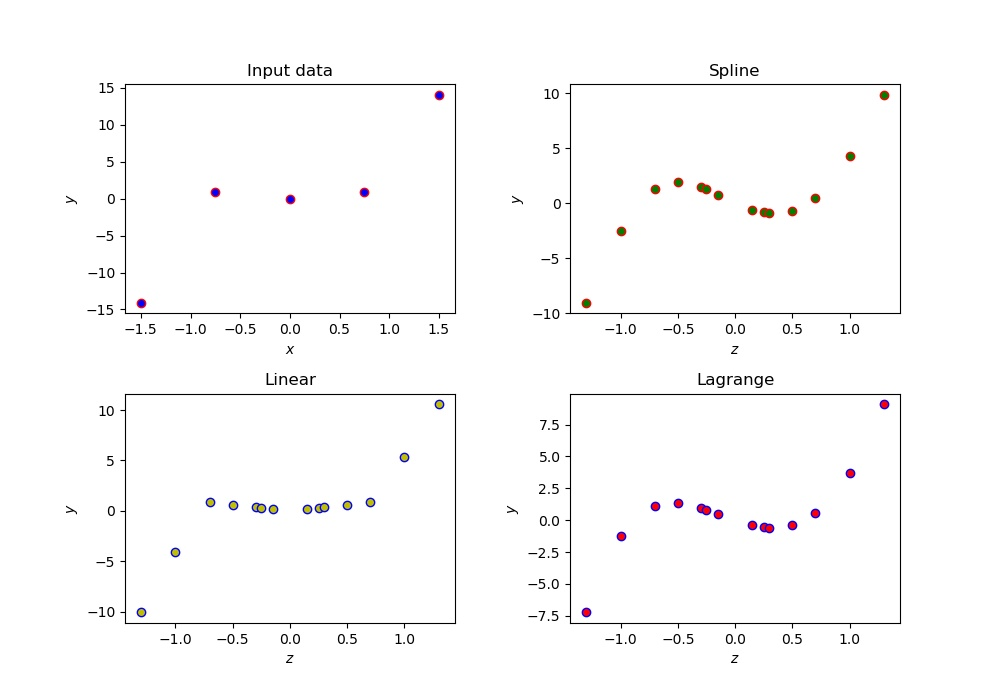
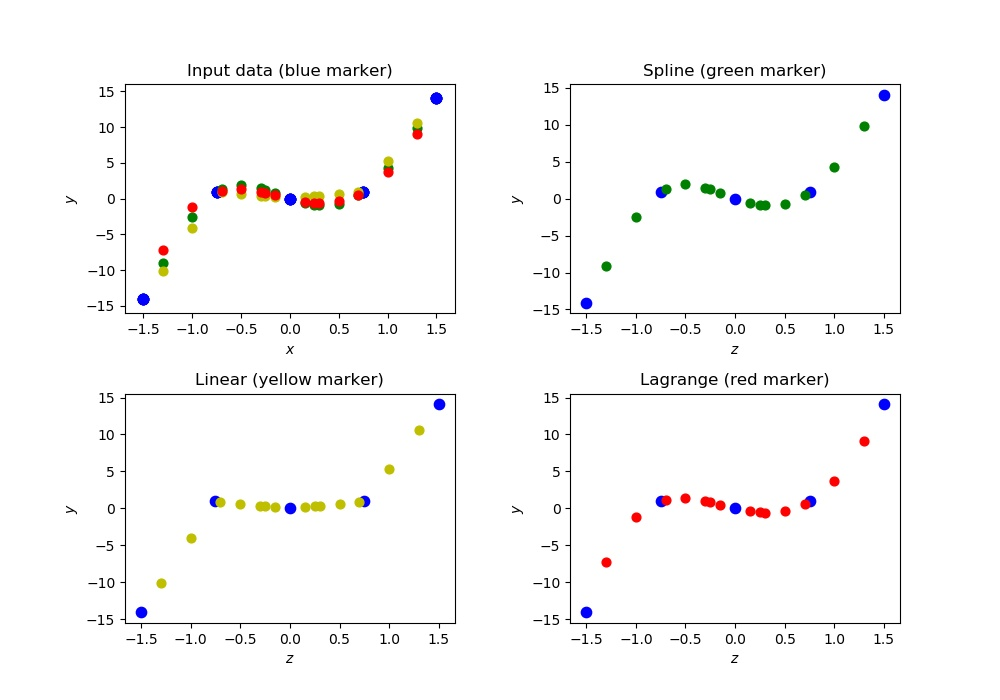
Add files via upload

diff --git a/Hw3/test.py b/Hw3/test.py
@@ -20,9 +20,10 @@ def write_file(name, v):
         fans.write('\n')
 
 # plotting    
-def pltplt(ax, title, x_data, y_data, xlabel, ylabel, color, edge_c):
+def pltplt(ax, title, x_data, y_data, xlabel, ylabel, color,size):
     ax.set_title(title)
-    ax.scatter(x_data,y_data,marker='o', c=color, edgecolor=edge_c)
+    ax.scatter(x_data,y_data,marker='o', c=color, s=size)
+    ax1.scatter(x_data,y_data,marker='o', c=color, s=size)
     ax.set_xlabel(xlabel)
     ax.set_ylabel(ylabel)
     
@@ -52,11 +53,15 @@ ax2 = plt.subplot(222)
 ax3 = plt.subplot(223)
 ax4 = plt.subplot(224)
 
-pltplt(ax1, 'Input data', x[0], x[1], '$x$', '$y$', 'b', 'r')
-pltplt(ax2, 'Spline', x[2], ans[0], '$z$', '$y$','g', 'r')
-pltplt(ax3, 'Linear', x[2], ans[1], '$z$', '$y$','y', 'b')
-pltplt(ax4, 'Lagrange', x[2], ans[2], '$z$', '$y$','r', 'b')
+pltplt(ax1, 'Input data (blue marker)', x[0], x[1], '$x$', '$y$', 'b', 55)
+pltplt(ax2, 'none', x[0], x[1], '$x$', '$y$', 'b', 55)
+pltplt(ax3, 'none', x[0], x[1], '$x$', '$y$', 'b', 55)
+pltplt(ax4, 'none', x[0], x[1], '$x$', '$y$', 'b', 55)
+pltplt(ax2, 'Spline (green marker)', x[2], ans[0], '$z$', '$y$','g', 40)
+pltplt(ax3, 'Linear (yellow marker)', x[2], ans[1], '$z$', '$y$','y',40)
+pltplt(ax4, 'Lagrange (red marker)', x[2], ans[2], '$z$', '$y$','r', 40)
 
 plt.subplots_adjust(wspace=0.35, hspace=0.35)
+plt.savefig("fig.jpg")
 plt.show()
 
